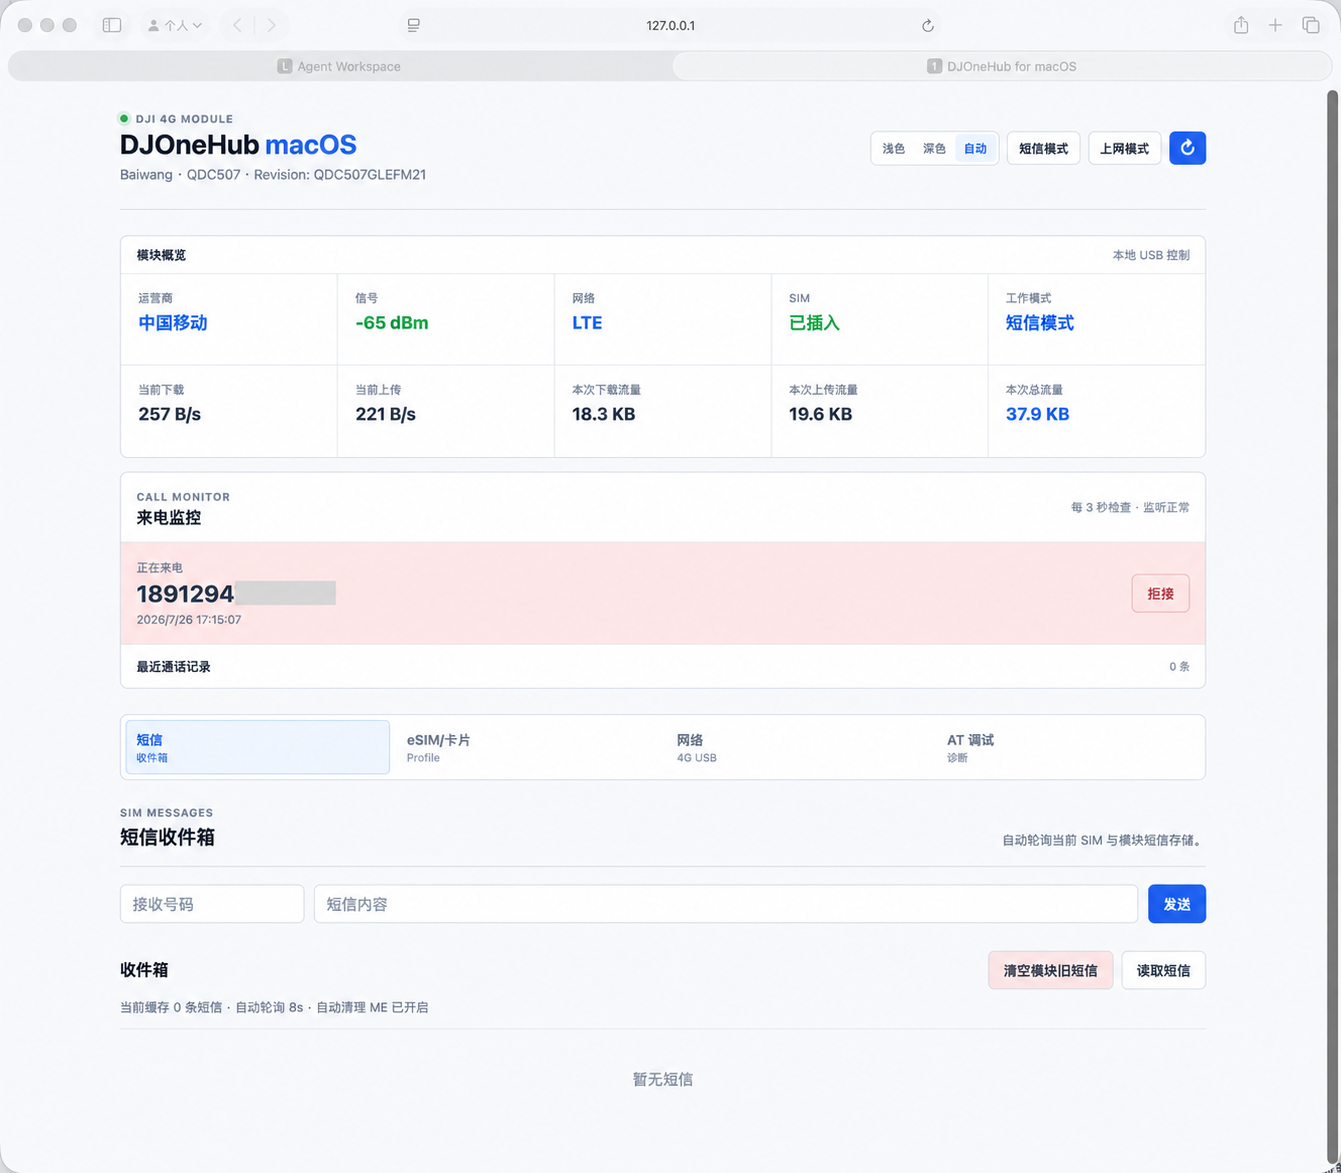
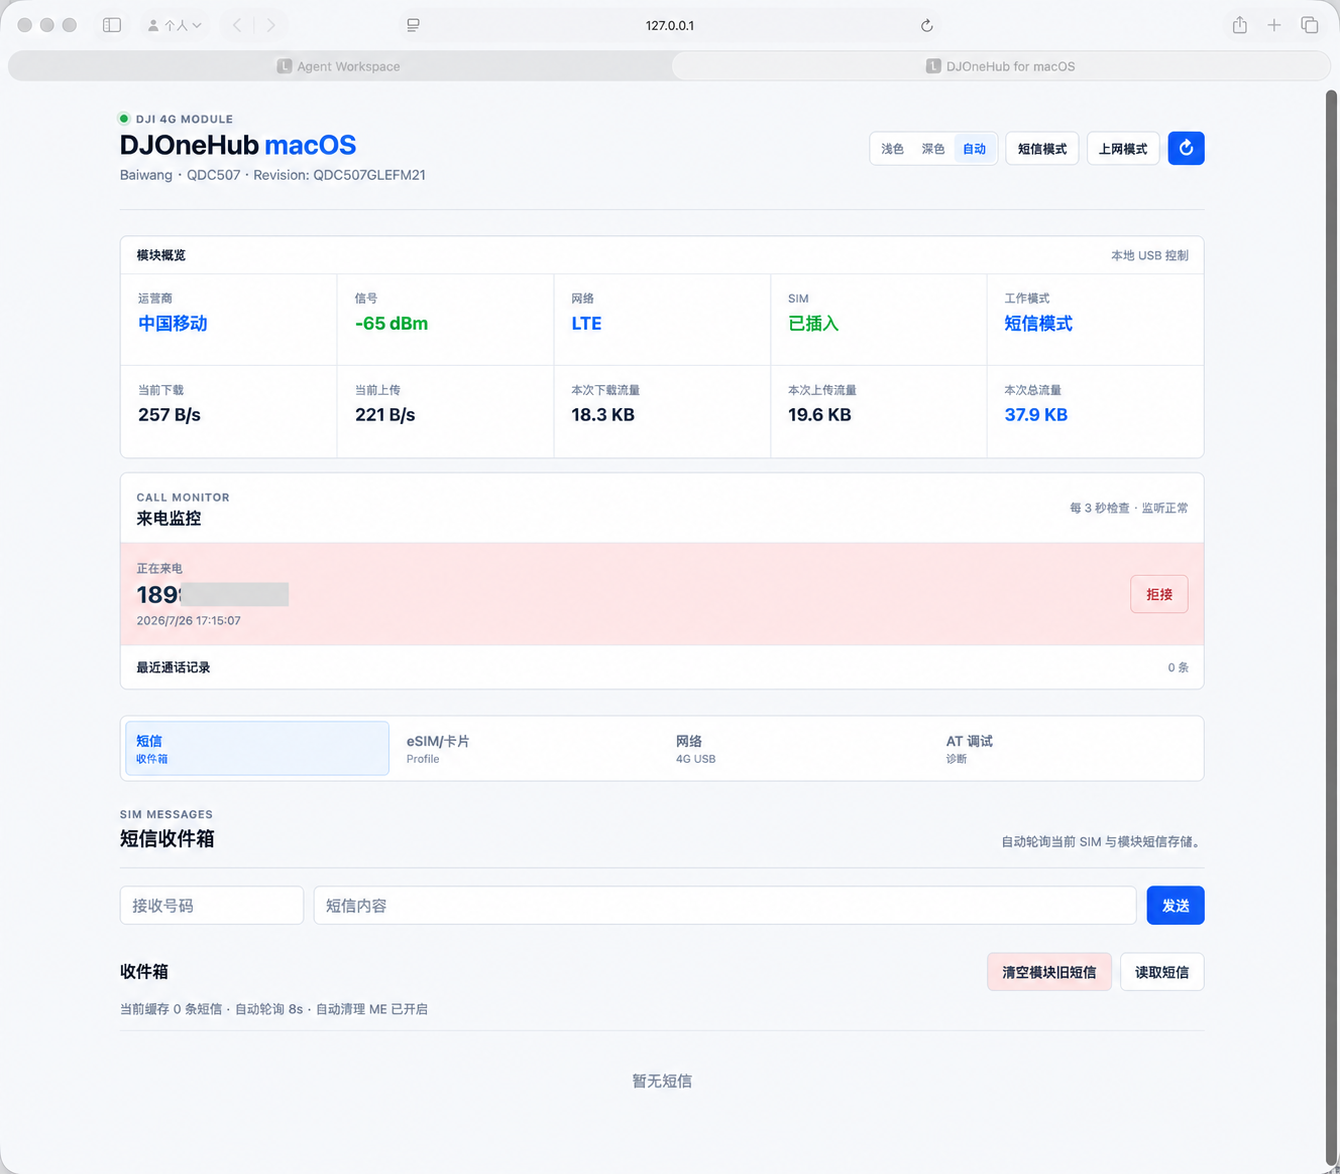
docs: foreground redacted call and SMS notifications

diff --git a/README.md b/README.md
@@ -4,6 +4,8 @@
 
 ## 这次改了什么
 
+![Mac 来电与短信原生提醒，号码和验证码均已遮挡](docs/images/macos-call-and-sms-notifications-redacted.png)
+
 | 改造 | 实现效果 |
 | --- | --- |
 | 来电提醒 | 有电话打进实体 SIM 时，Mac 显示紧凑的原生来电卡片，网页关掉后也能继续提醒，可直接拒接。 |
